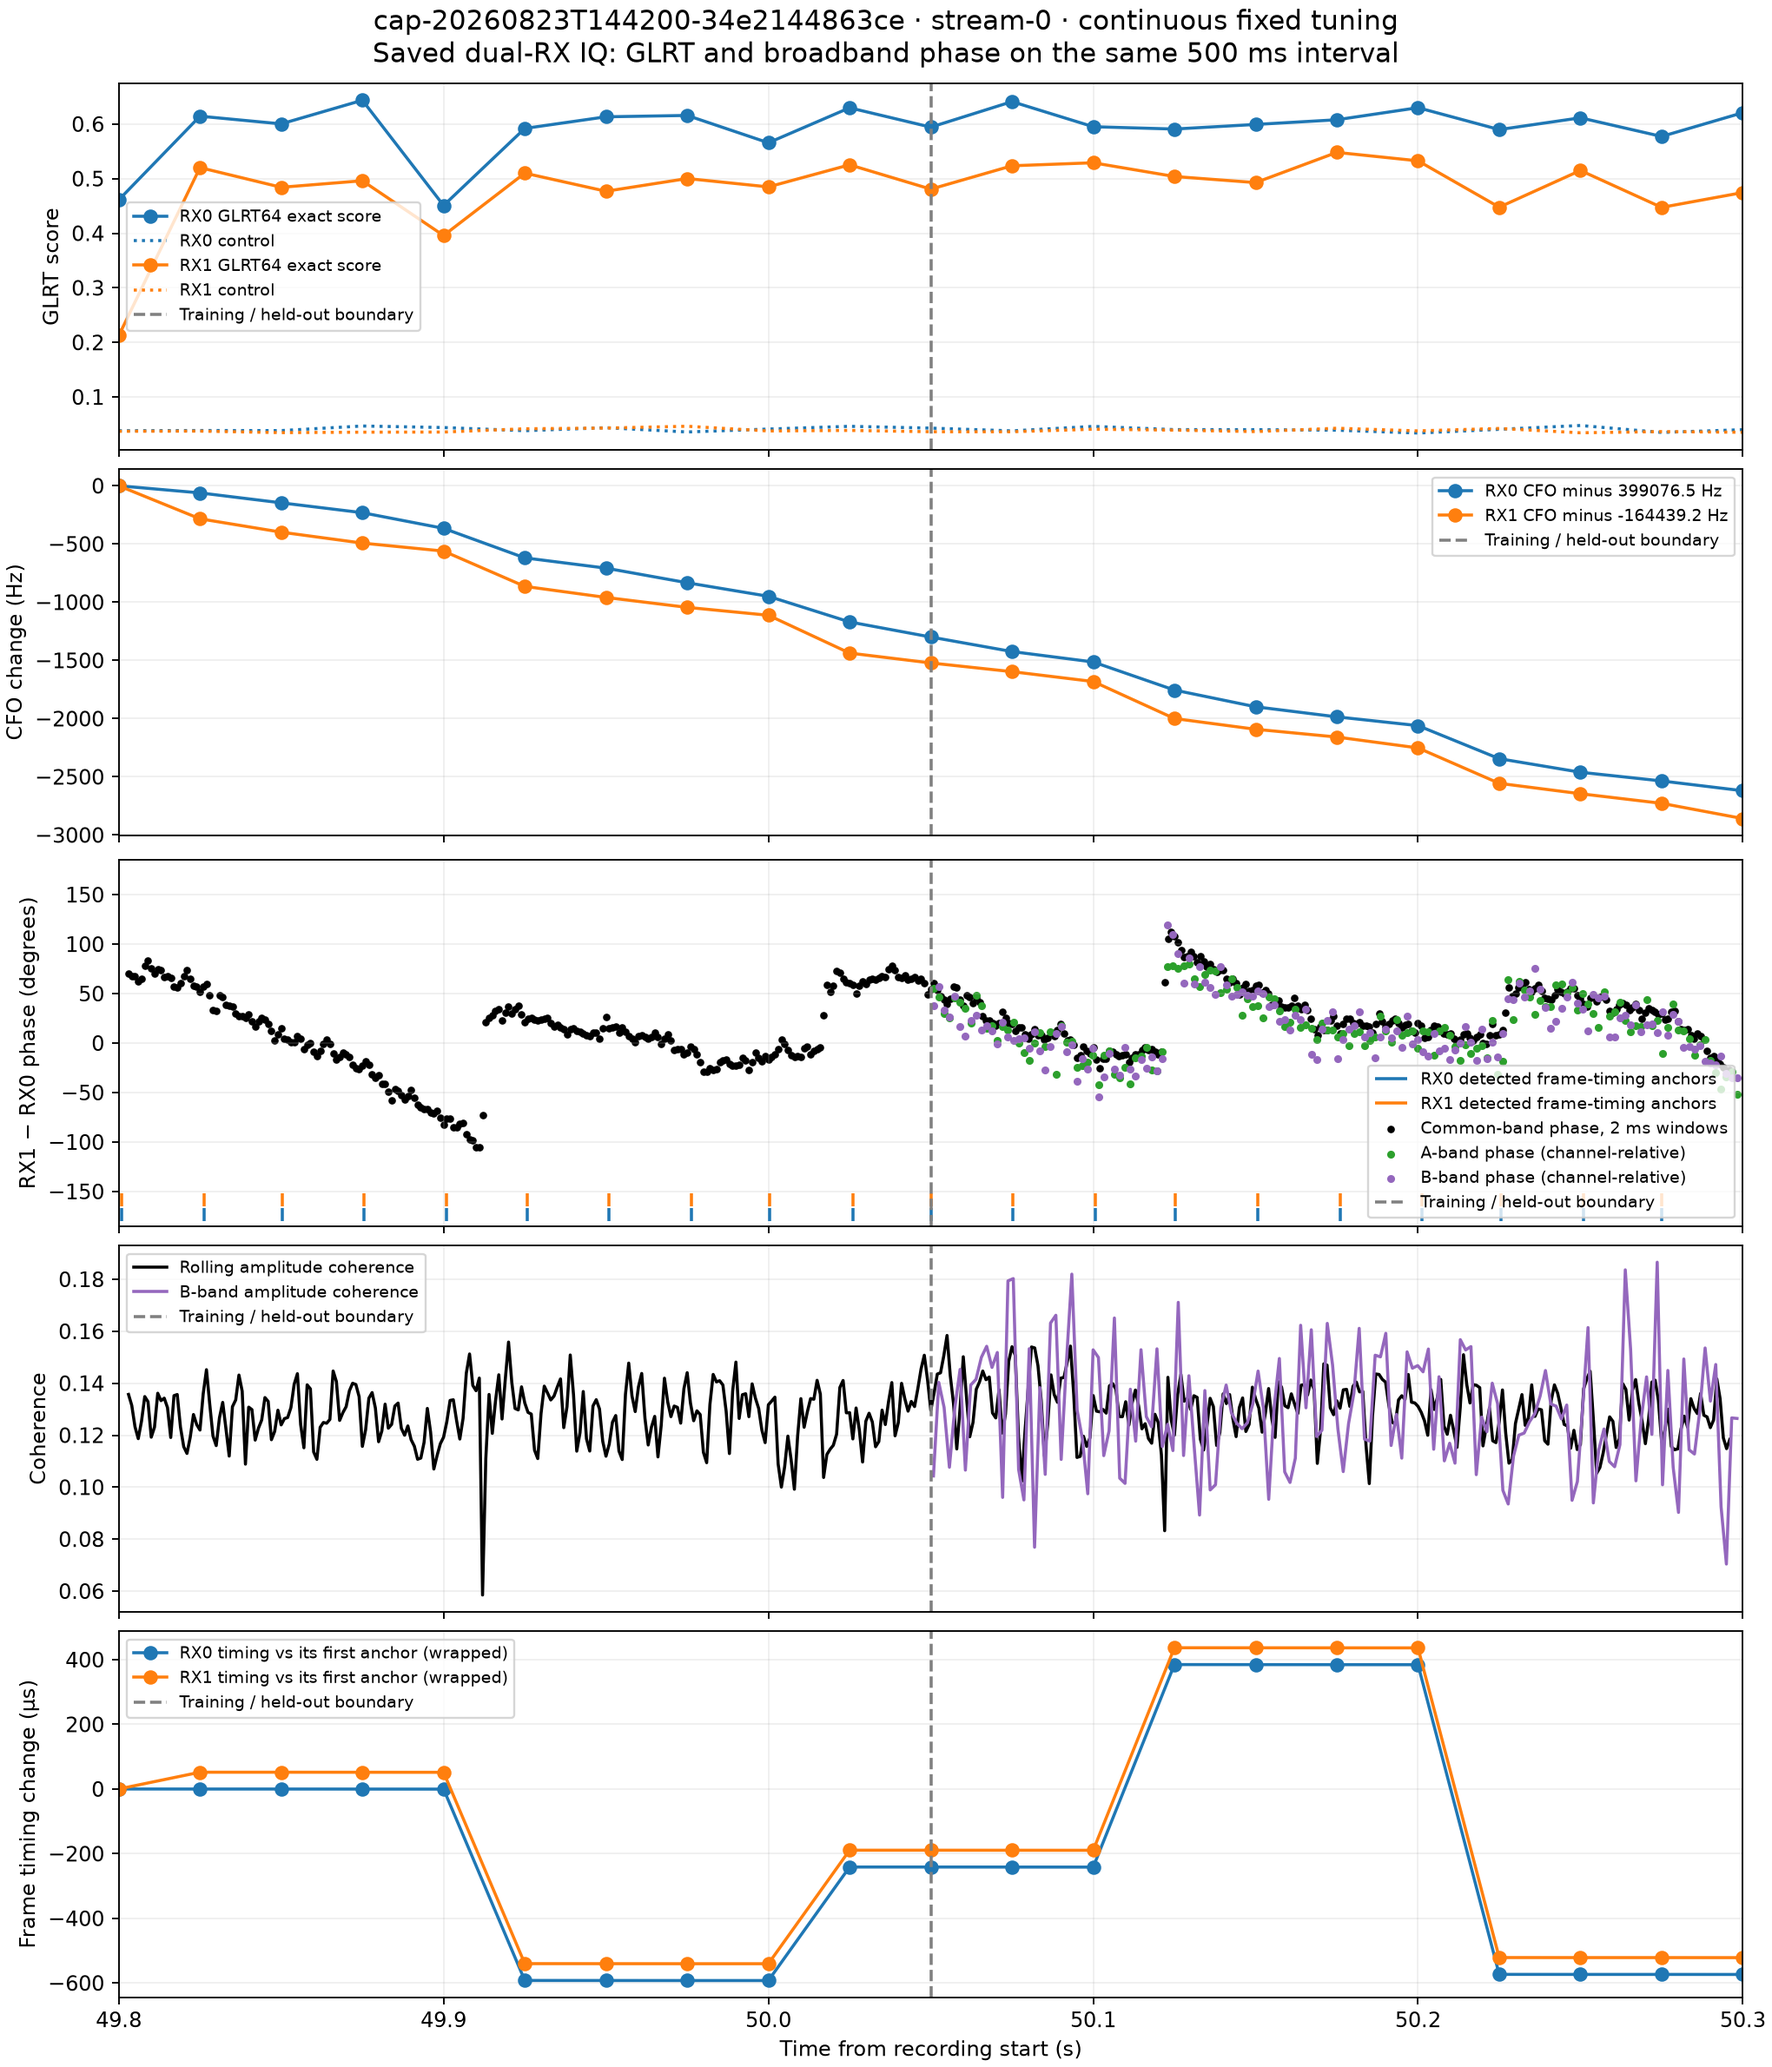
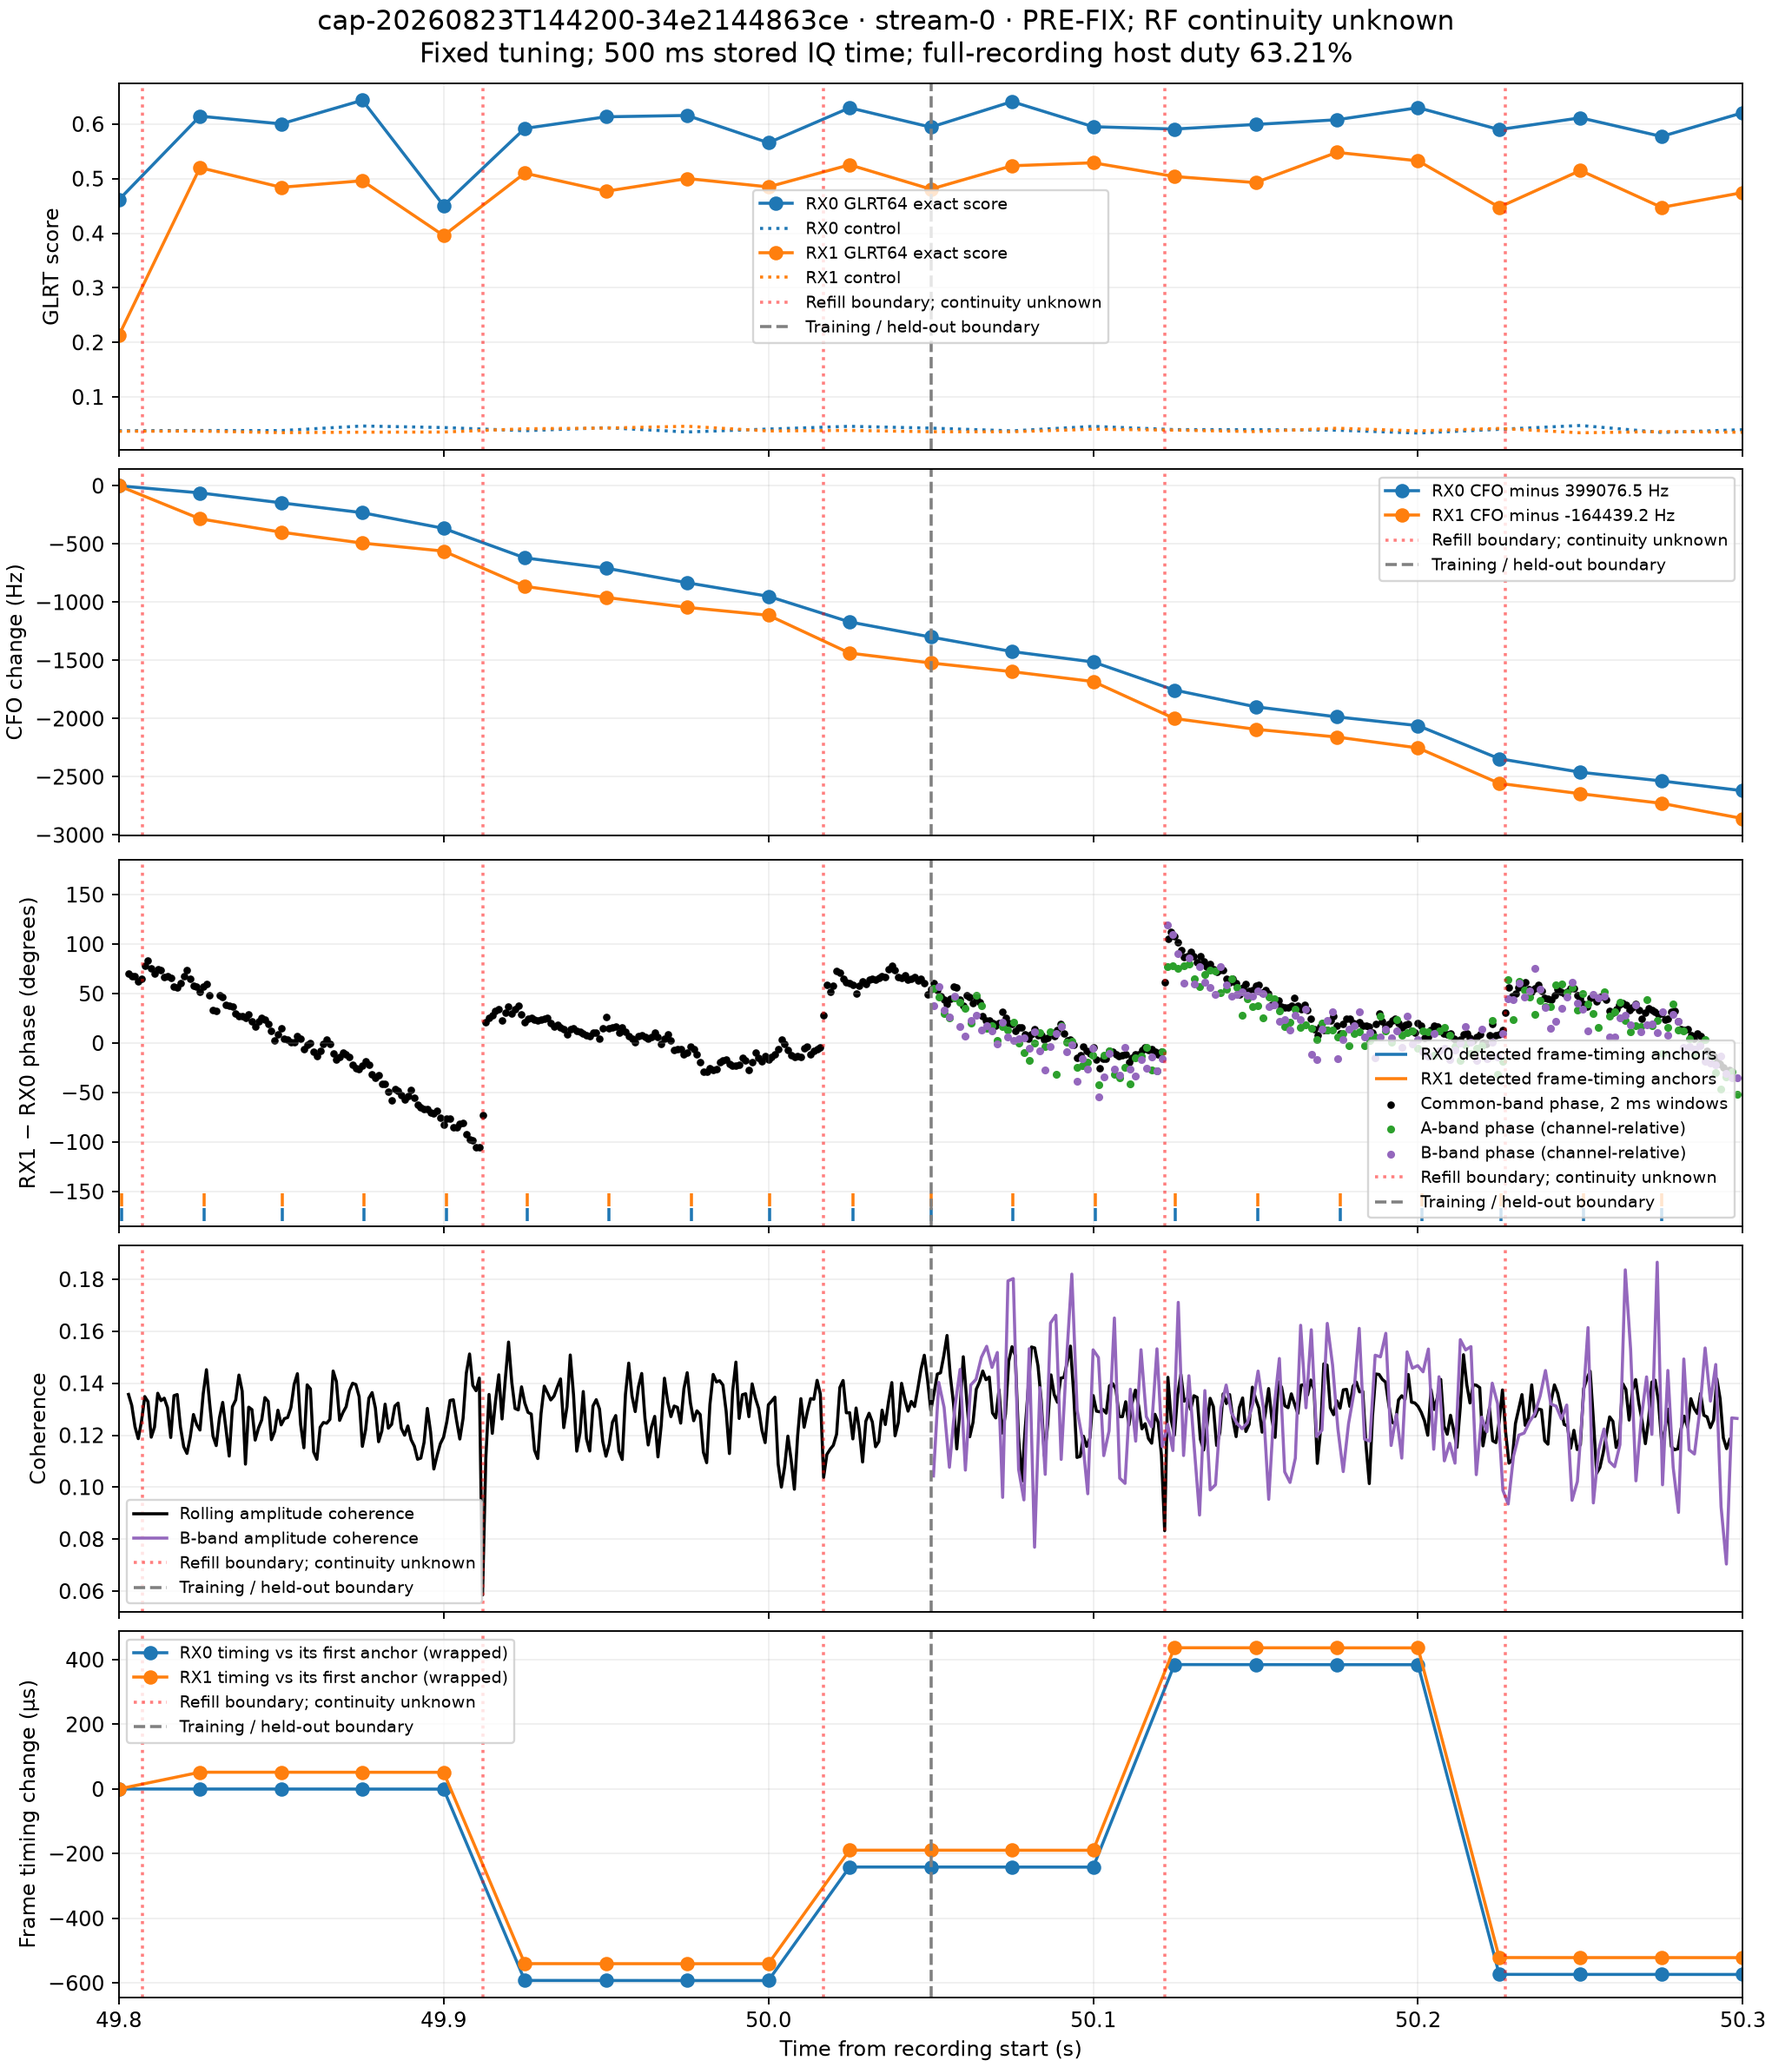
Correct pre-fix capture duty and mark refill discontinuities

diff --git a/reports/figures/2026_09_22_continuous_dual_phase/replay.py b/reports/figures/2026_09_22_continuous_dual_phase/replay.py
@@ -103,9 +103,11 @@ def main():
     axes[3].plot(t,[r['held_band_coherence'] for r in tr],label='B-band amplitude coherence',color='tab:purple')
     axes[3].set_ylabel('Coherence');axes[4].set_ylabel('Frame timing change (µs)');axes[4].set_xlabel('Time from recording start (s)')
     for ax in axes:
+        for idx,edge in enumerate([49.80736,49.9122176,50.0170752,50.1219328,50.2267904]):
+            ax.axvline(edge,color='red',ls=':',alpha=.5,label='Refill boundary; continuity unknown' if idx==0 else None)
         ax.axvline(START+DURATION/2,color='gray',ls='--',label='Training / held-out boundary')
         ax.grid(alpha=.2);ax.legend(fontsize=8,loc='best');ax.set_xlim(START,START+DURATION)
-    fig.suptitle(f'{SESSION} · stream-0 · continuous fixed tuning\nSaved dual-RX IQ: GLRT and broadband phase on the same 500 ms interval',fontsize=13)
+    fig.suptitle(f'{SESSION} · stream-0 · PRE-FIX; RF continuity unknown\nFixed tuning; 500 ms stored IQ time; full-recording host duty 63.21%',fontsize=13)
     fig.savefig(args.output/'phase-and-glrt.png',dpi=170)
     zoom_start,zoom_stop=49.85,49.865
     zoom,za=plt.subplots(2,1,figsize=(12,6),sharex=True,constrained_layout=True)
@@ -128,6 +130,7 @@ def main():
     zoom.savefig(args.output/'frame-boundary-zoom.png',dpi=170)
     document['frame_timing']=dict(frame_rate_hz=FRAME_RATE_HZ,zoom_predictions=frame_predictions,
         caveat='Integer-sample GLRT timing hypotheses, not independently verified starts for every frame. Timing jumps prevent a global frame comb. No absolute frame IDs.')
+    document['continuity_correction']=dict(status='Pre-fix; RF continuity unknown; time axis is stored sample time',host_capture_span_s=94.921095577,host_duty_percent=63.210395576743,refill_boundaries_s=[49.80736,49.9122176,50.0170752,50.1219328,50.2267904])
     (args.output/'results.json').write_text(json.dumps(document,indent=2,allow_nan=False)+'\n')
     print('DONE',document['model'],tracking['tracked'],tracking['wrong_time'],flush=True)
 

diff --git a/reports/2026_09_22_continuous_dual_rx_phase_glrt.md b/reports/2026_09_22_continuous_dual_rx_phase_glrt.md
@@ -1,6 +1,12 @@
 # Continuous dual-RX IQ: broadband phase, GLRT and frame timing
 
-Replayed the saved fixed-tuning recording `cap-20260823T144200-34e2144863ce`, stream-0, at **49.800–50.300 s**: 500 ms and **1,250,000 complex samples per receiver**, at 2.5 MS/s. This is a section of a continuous 60-second recording, not an adaptive scan. No new RF was collected.
+**Correction: this is a pre-fix, fixed-tuning recording, not verified continuous RF time.** Recorded August 23; the continuity-buffer fix was deployed and verified August 24 at `058576ec74b7dae9ae3ad2a9798679fcf2c934c3`. The selected stream is radio `.20` (RX0/RX1). Its manifest says `sample_loss_observable=false`, with no device sample counters, and all 573 timeline rows say continuity `unknown`. Zero reported gaps therefore does not establish zero loss.
+
+The 60 seconds of stored IQ took **94.921095577 seconds** from first host refill request start to final refill completion: **63.2104% host-timed capture duty**, not an exact hardware-counter RF duty. The plotted horizontal coordinate is stored-sample time, not guaranteed elapsed RF time. Refill edges inside the plot are **49.8073600, 49.9122176, 50.0170752, 50.1219328 and 50.2267904 seconds**. The four prominent phase/timing transitions line up with the latter four boundaries. This supports the already documented [refill-time compression explanation](2026_08_24_refill_time_compression_sawtooth.md), rather than treating them as unexplained satellite events. Phase windows crossing these boundaries must not be interpreted as continuous-time measurements. The original choice of this example was unsuitable as a gap-free control; a counter-qualified post-fix recording is needed for that purpose.
+
+Duty is reproducible from the selected stream's manifest-referenced timeline: `100 * (captured_sample_count / sample_rate_hz) / ((last.host_request_monotonic_ns.upper_ns - first.host_request_monotonic_ns.lower_ns) / 1e9)`. The immutable manifest resides at `/srv/bulk/leo/recordings/2026/08/23/cap-20260823T144200-34e2144863ce/manifest.json`.
+
+Replayed the saved fixed-tuning recording `cap-20260823T144200-34e2144863ce`, stream-0, at **49.800–50.300 s**: 500 ms of stored sample time and **1,250,000 complex samples per receiver**, at 2.5 MS/s. This is a section of a nominal 60-second dwell, not an adaptive scan. No new RF was collected.
 
 The section was selected from the strongest shared 500 ms example in the [earlier GLRT/phase report](2026_08_23_glrt_phase_segment_comparison.md), before inspecting this replay's phase shape. Sealed analysis run: `capture-da59c914adfe41278262fe4b5d297de0`. Both receiver tracks have strong known-pilot evidence; this supports a shared signal hypothesis but does not establish a unique satellite identity.
 
@@ -31,7 +37,7 @@ The full plot marks those saved timing anchors as short blue/orange ticks. The z
 
 RX0/RX1 anchors nearly coincide in this zoom. Across the full interval, however, the selected timing hypotheses jump together by hundreds of microseconds. A global frame comb anchored only at the start would therefore misrepresent the archived evidence. The bottom panel wraps each receiver's timing against **its own first anchor**; its two vertical offsets are not an inter-receiver delay measurement. Lines connect sparse probes and do not locate the jumps precisely.
 
-The phase transitions near 49.91, 50.015, 50.12 and 50.225 s occur near changes in these timing hypotheses, within the 25 ms timing-probe resolution. This is an association, not proof that a frame boundary causes a phase reset. Ordinary frames occur every 1.333 ms, far more often than these transitions. Candidate/timing-basin changes, signal structure and source mixtures need investigation before assigning a physical cause. These transitions occur within a fixed-tuning recording, so scanner retuning is not a sufficient explanation for them.
+The phase transitions near 49.91, 50.015, 50.12 and 50.225 s occur near changes in these timing hypotheses, within the 25 ms timing-probe resolution. They also coincide with the recorded refill boundaries, as established in the correction above. Ordinary frames occur every 1.333 ms, far more often than these transitions. The pre-fix acquisition discontinuities must be addressed before considering transmitter or geometric causes; fixed tuning alone did not make this a continuous-time control.
 
 The current phase window is **2 ms**, wider than a frame. This figure cannot resolve a sub-frame phase step. A next diagnostic should evaluate frame-synchronous, shorter windows and compare the selected timing basin with competing basins around each transition.
 
